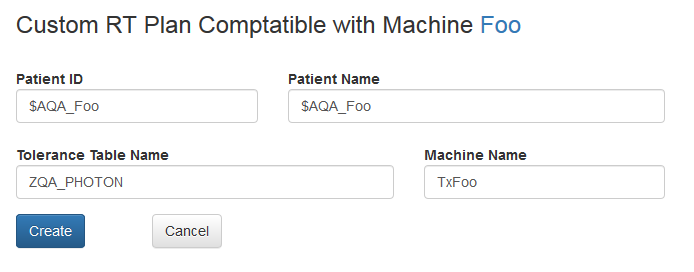
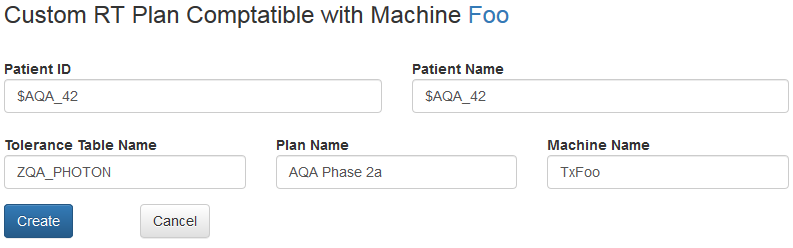
more documentation

diff --git a/src/main/resources/static/doc/quickstart/index.html b/src/main/resources/static/doc/quickstart/index.html
@@ -1,61 +1,111 @@
-<div title="Quick Start Guide" class="col-md-6">
-
-
+<div title="Quick Start Guide" class="col-md-6 col-md-offset-1">
 
     <h2>@@title@@</h2>
 
-    To run a test on the AQA platform a machine and RTPLAN must first be created (account required, contact
-    Jim Irrer (irrer@med.umich.edu) or Natalie Baughan (nbaughan@med.umich.edu)).  This is only done once, and
-    subsequently tests may be run against the machine many times by repeating steps 3 and 4.</p>
-    
-    <p>a. Each institution will receive user accounts that will have access to run files and create additional accounts. This account
-    must be created by, please contact them to get set
-    up. They will send you your account details.</p>
-    
+    To run a test on the AQA platform a machine and RTPLAN must first be created ( account required, contact
+    <a href="mailto:irrer@med.umich.edu">Jim Irrer</a>
+    or
+    <a href="mailto:nbaughan@med.umich.edu">Natalie Baughan</a>
+    )
+    . This is only done once, and
+    subsequently tests may be run against the machine many times by repeating steps 3 and
+    4.
+
+    <p>a. Each institution will receive user accounts that will have access to run files and create additional accounts.
+        This account
+        must be created by, please contact them to get set
+        up. They will send you your account details.
+    </p>
+
     <h4 style="margin-top: 35px;">1: Create Machine</h4>
-    
-   
+
+
     <p style="margin-left: 40px">
-    <b>Administration</b>  &#8594;  <b>Machines</b>  &#8594;  <img src="CreateNewMachine.png" width="200px"/>
+        <b>Administration</b>
+        &#8594;
+        <b>Machines</b>
+        &#8594;
 
-    <p>Fill fields to reflect your machine, and click <b>Create</b>, which will return to the list of machines.</p>
-    
-    
-    <h4 style="margin-top: 35px;">2: Create RTPLAN</h4>
-    <p>Click the name of the newly created machine, then the "Customize Plan" button at the bottom.</p>
-    
-    
-    <p>The <b>Patient ID</b>, <b>Patient Name</b>, and <b>Plan Name</b> are arbitrary, but can be helpful for tracking the machine's test activity.</p>
-    
-    <p>The <b>Tolerance Table Name</b> should be one that exists in your treatment planning system.   The <b>Machine Name</b> is given
-    a default, but may need to be changed to match the name expected by the treatment machine.</p>
-    
-    <p>Click <b>Create</b> to create the RTPLAN.  This will bring up another page with a link to download the just-created RTPLAN.</p>
-    
-    <h4 style="margin-top: 35px;">3: Run the RTPLAN</h4>
-    
+        <div style="margin:10px; border: 1px solid lightgrey;">
+            <img src="CreateNewMachine.png" style="margin:30px;" width="250px" />
+        </div>
+
+        <p>
+            Fill fields to reflect your machine, and click
+            <b>Create</b>
+            , which will return to the list of machines.
+        </p>
+
+        <h4 style="margin-top: 35px;">
+            2:
+            <a href="/static/doc/CustomizePlan/index.html" title="Click for more detailed guide">Create RTPLAN</a>
+        </h4>
+        <p>Click the name of the newly created machine, then the "Customize Plan" button at the bottom.</p>
+
+        <p>
+            The
+            <b>Patient ID</b>
+            ,
+            <b>Patient Name</b>
+            , and
+            <b>Plan Name</b>
+            are arbitrary, but can be helpful for tracking the machine's test activity.
+        </p>
+
+        <p>
+            The
+            <b>Tolerance Table Name</b>
+            should be one that exists in your treatment planning system. The
+            <b>Machine Name</b>
+            is given
+            a default, but may need to be changed to match the name expected by the treatment machine.
+        </p>
+
+        <p>
+            Click
+            <b>Create</b>
+            to create the RTPLAN. This will bring up another page with a link to download the just-created RTPLAN.
+        </p>
+
+        <h4 style="margin-top: 35px;">3: Run the RTPLAN</h4>
+
         <p>Import the RTPLAN into your treatment system.</p>
-        
-        <p>Verify the couch coordinates are correct for your machine. 
-                The couch needs to be retracted so it won't be on imager,
-                but still in a position to beam on.</p>
 
-        <p>Schedule sessions and add integrated image template in scheduling. 
-        The plan needs to run as integrated, not continuous.</p>
-        
+        <p>Verify the couch coordinates are correct for your machine.
+            The couch needs to be retracted so it won't be on
+            imager,
+            but still in a position to beam on.
+        </p>
+
+        <p>Schedule sessions and add integrated image template in scheduling.
+            The plan needs to run as integrated, not
+            continuous.
+        </p>
+
         <p>Imager should be at 1500 mm (not at ISO)</p>
-        
+
         <p>Schedule at machine, deliver in QA mode, and export the RTIMAGE files.</p>
 
-    <h4 style="margin-top: 35px;">4: Run the Test</h4>
+        <h4 style="margin-top: 35px;">4: Run the Test</h4>
 
-    <p>On the AQA site, click <b>Run Procedure</b> &#8594; <b>Phase2</b></p>
-    
-    <p>Drag and drop the RTIMAGE files into the upload box.</p>
-    
-    <p>Click the <b>Run</b> button to start the analysis, which takes less than 2 minutes.</p>
-    
-    <p>Results will be displayed automatically, showing an overview of results.  Click on the tests for more details.</p>
+        <p>
+            On the AQA site, click
+            <b>Run Procedure</b>
+            &#8594;
+            <b>Phase2</b>
+        </p>
 
-    <p style="margin-top: 35px;"> </p>
+        <p>Drag and drop the RTIMAGE files into the upload box.</p>
+
+        <p>
+            Click the
+            <b>Run</b>
+            button to start the analysis, which takes less than 2 minutes.
+        </p>
+
+        <p>Results will be displayed automatically, showing an overview of results. Click on the tests for more details.
+        </p>
+
+        <p style="margin-top: 35px;">
+        </p>
 </div>

diff --git a/src/main/resources/static/doc/CustomizePlan/index.html b/src/main/resources/static/doc/CustomizePlan/index.html
@@ -1,0 +1,114 @@
+<div title="Creating a Custom Plan" class="col-md-6 col-md-offset-1">
+    <h2 style="margin:30px;">Creating a Custom Plan</h2>
+    <p>To run the Phase 2 tests, you must submit a set of EPID images created by a compatible RTPLAN.</p>
+
+    <p>Often simply copying an RTPLAN from another institution does not work because of incompatibilities
+        with machine
+        name, beam energies, and tolerance table names. The Customize Plan feature
+        addresses this.
+    </p>
+
+    <p>
+        The steps are:
+
+        <ul>
+            <li>Navigate to Administration --> Machines</li>
+
+            <li>Select the machine from the list that you wish to make the plan for. If it does not exist, use Create
+                new
+                Machine
+                to create
+                it.
+            </li>
+
+            <li>Make sure that the list of beam energies that your machine supports is correct.</li>
+
+            <li>Click the Customize Plan button</li>
+        </ul>
+    </p>
+
+
+    <p>The following screen shot shows an example for a machine named Foo.</p>
+
+    <div style="margin:30px; border: 1px solid lightgrey;">
+        <img src="CustomizePlanUI.png" style="margin:30px;" />
+    </div>
+
+    <p>Fill in the fields:</p>
+
+    <div style="margin:30px;">
+        <p>
+            <b>Patient ID:</b>
+            This will be filled with a default value but you may override it with something that
+            will make it convenient
+            for
+            you to track in your system.
+        </p>
+
+        <p>
+            <b>Patient Name:</b>
+            Similar to Patient ID
+        </p>
+
+        <p>
+            <b>Tolerance Table Name:</b>
+            Initially empty, this must be filled with a tolerance table that your treatment planning system supports.
+        </p>
+
+        <p>
+            <b>Plan Name:</b>
+            Set by default, this can be overridden, often reflecting a version of the plan.
+        </p>
+
+        <p>
+            <b>Machine Name:</b>
+            The name that your planning system expects. Some planning systems have different values for machine ID and
+            machine name.
+        </p>
+    </div>
+
+    <p>Click the Create button and the following will be shown:</p>
+
+    <div style="margin:30px; border: 1px solid lightgrey;">
+        <img src="CustomizePlanDownload.png" style="margin:30px;" />
+    </div>
+
+    <p>Click Download to download a DICOM version of the RTPLAN.</p>
+
+    <p>The RTPLAN may then be imported into your planning system.</p>
+
+    <p>Note: The AQA keeps track of custom made plans, so it is not necessary to upload them later.</p>
+
+    <h4>Technical Notes</h4>
+    <ul>
+        <li>Custom plans are created by taking a master plan and modifying it. The collimator and beam energies in
+            machine configuration parameters are used, so it is important that they be correct.
+        </li>
+        <li>
+            There is a master plan for each of the Millenium and HD MLC collimators. The choice of which to start from
+            is
+            determined by the
+            <b>Collimator</b>
+            choice in machine configuration.
+        </li>
+
+        <li>All treatment machines are expected to support 6 MeV, and that is the energy that most beams in Phase 2 use.
+            Beyond that, machines may be set up to handle different energies. The master plans have a J18G0-6F beam
+            which is copied for the other beam energies that a machine may support. For example, if a machine support 16
+            Mev, then a J18G0-16F beam will be added to the custom plan.
+        </li>
+
+        <li>The order of the beams in the plan was chosen to optimize delivery time by minimizing mechanical movement.
+            When a plan is created, each beam name is prefixed with a number that, when sorted, will preserve this
+            order.
+        </li>
+
+        <li>When a plan is created, it uses all new UIDs. This is so it will be entirely separate from other versions of
+            the plan and can be imported into a treatment planning system without conflicts.
+        </li>
+
+        <li>The instance creation date and time of the plan are automatically set to the current time to help keep track
+            of plans.
+        </li>
+    </ul>
+</div>

diff --git a/src/main/resources/static/doc/CollimatorCentering/index.html b/src/main/resources/static/doc/CollimatorCentering/index.html
@@ -1,4 +1,4 @@
-<div title="Collimator Centering" class="col-md-8">
+<div title="Collimator Centering" class="col-md-8 col-md-offset-1">
 
     <h2>@@title@@</h2>
     This test determines the center of of the collimator's rotation.  The images below are an example of those analyzed, with edges and center annotated. 
@@ -25,7 +25,7 @@ X = (-50.286 + 49.524 + -49.265 + 50.510) / 4 =  0.121
 Y = (-50.286 + 50.410 + -50.600 + 50.062) / 4 = -0.104
 </pre>
     </div>
-    
+ 
 <!-- ++++++++++++++++++++++++++++++++++++++++++++++++++++++++++++++++++++++++++++++++++ -->
 
     <br />

diff --git a/src/main/resources/static/doc/index/index.html b/src/main/resources/static/doc/index/index.html
@@ -1,8 +1,10 @@
-<div title="User Guides" class="col-md-6">
+<div title="User Guides" class="col-md-6 col-md-offset-1">
 
     <h2>@@title@@</h2>
 
     <p><a href="/static/doc/quickstart/index.html"><h4 style="margin-top: 35px;">Quick Start Guide</h4></a></p>
+    
+    <p><a href="/static/doc/CustomizePlan/index.html"><h4 style="margin-top: 35px;">Customize Plan</h4></a></p>
     
     <p><a href="/static/doc/CollimatorCentering/index.html"><h4 style="margin-top: 35px;">Collimator Centering</h4></a></p>
 

diff --git a/src/main/resources/static/doc/SymmetryAndFlatness/index.html b/src/main/resources/static/doc/SymmetryAndFlatness/index.html
@@ -1,4 +1,4 @@
-<div title="Symmetry, Flatness, and Constancy" class="col-md-6">
+<div title="Symmetry, Flatness, and Constancy" class="col-md-6 col-md-offset-1">
 
 <!-- 
 
